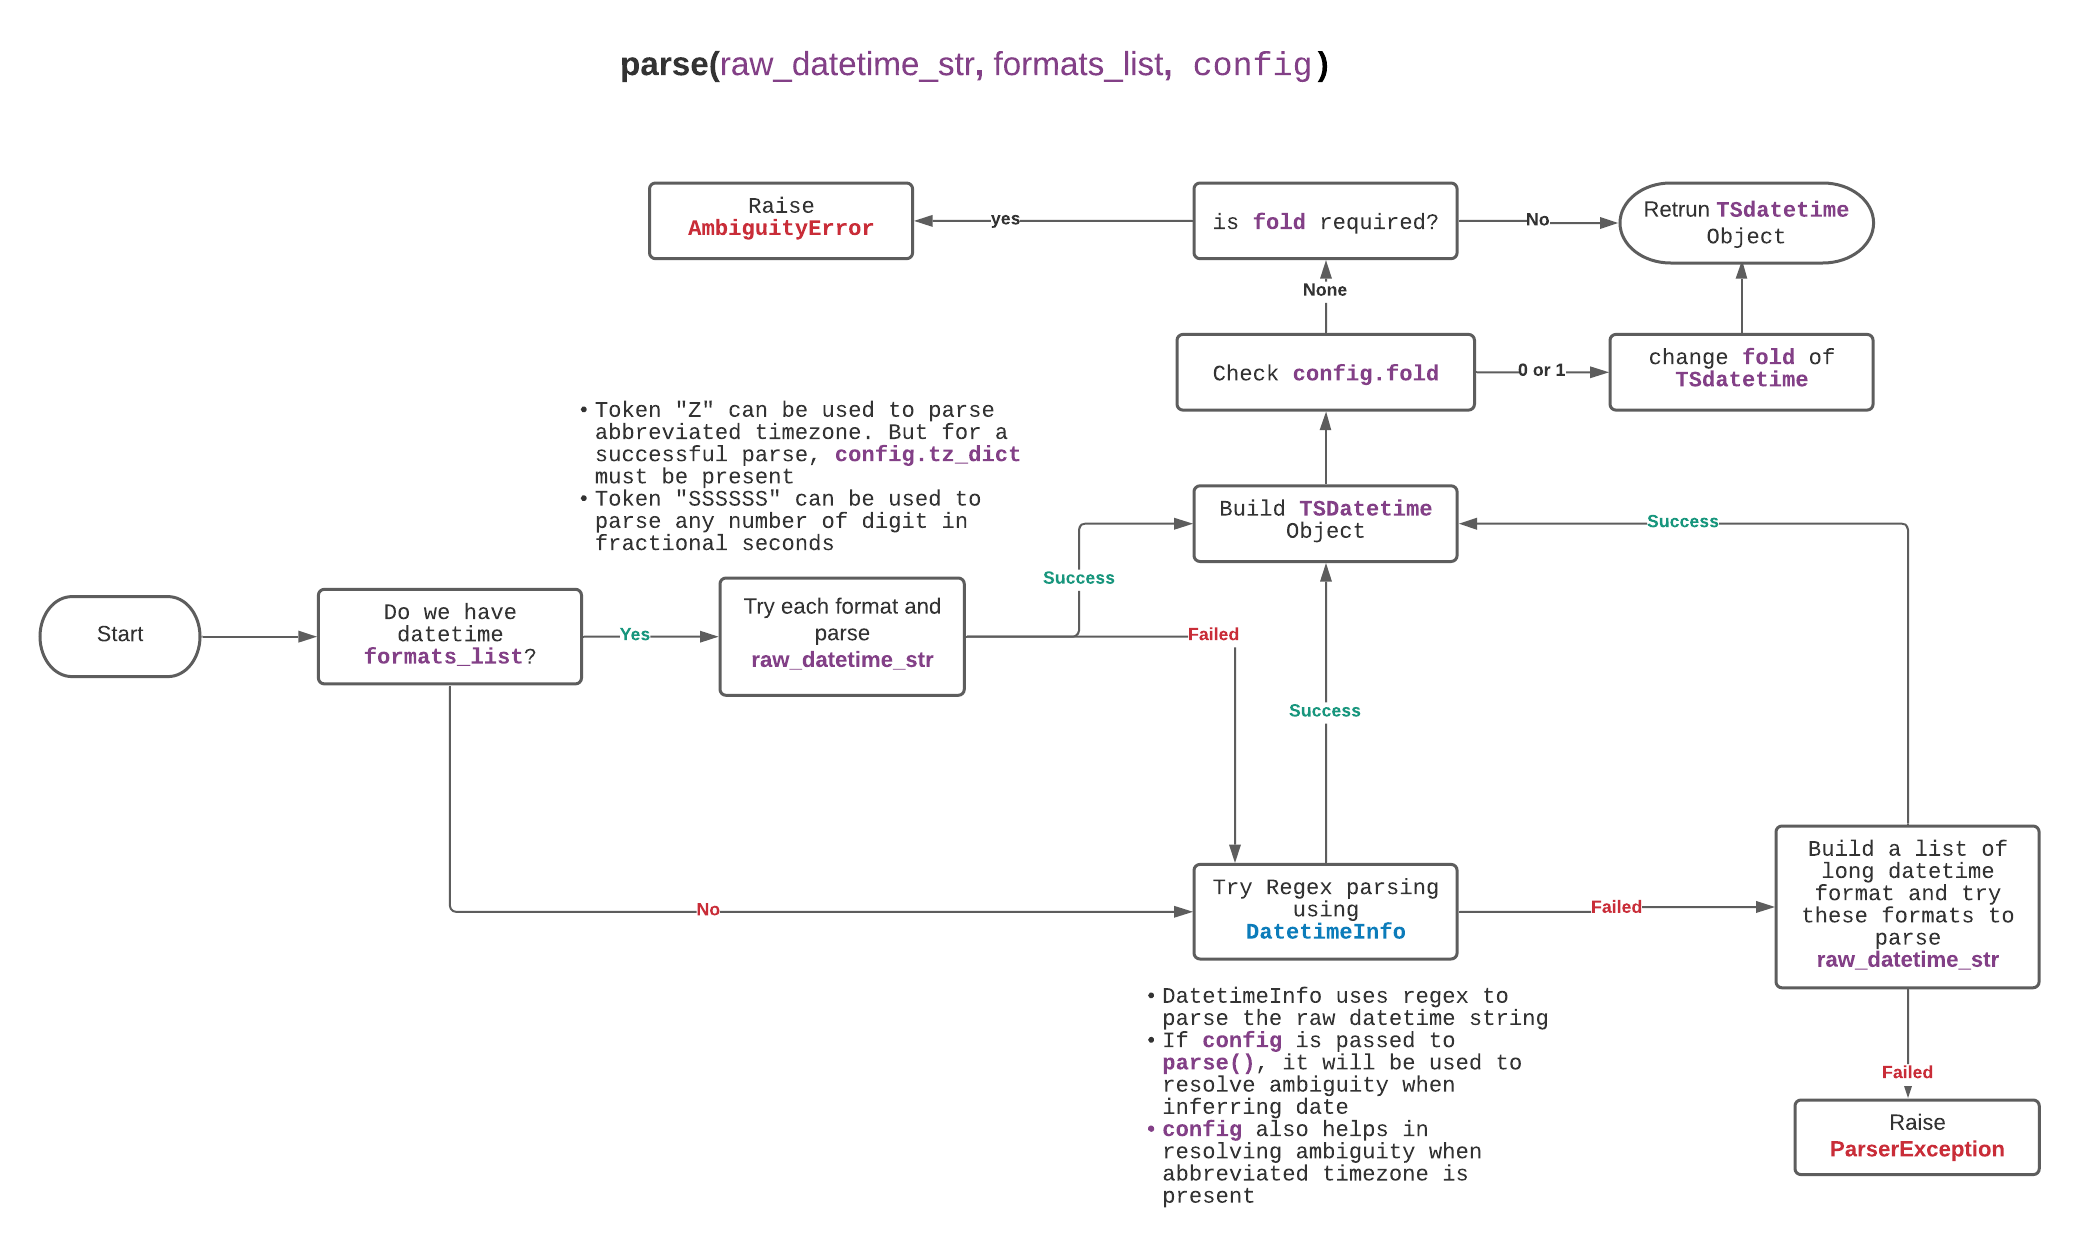
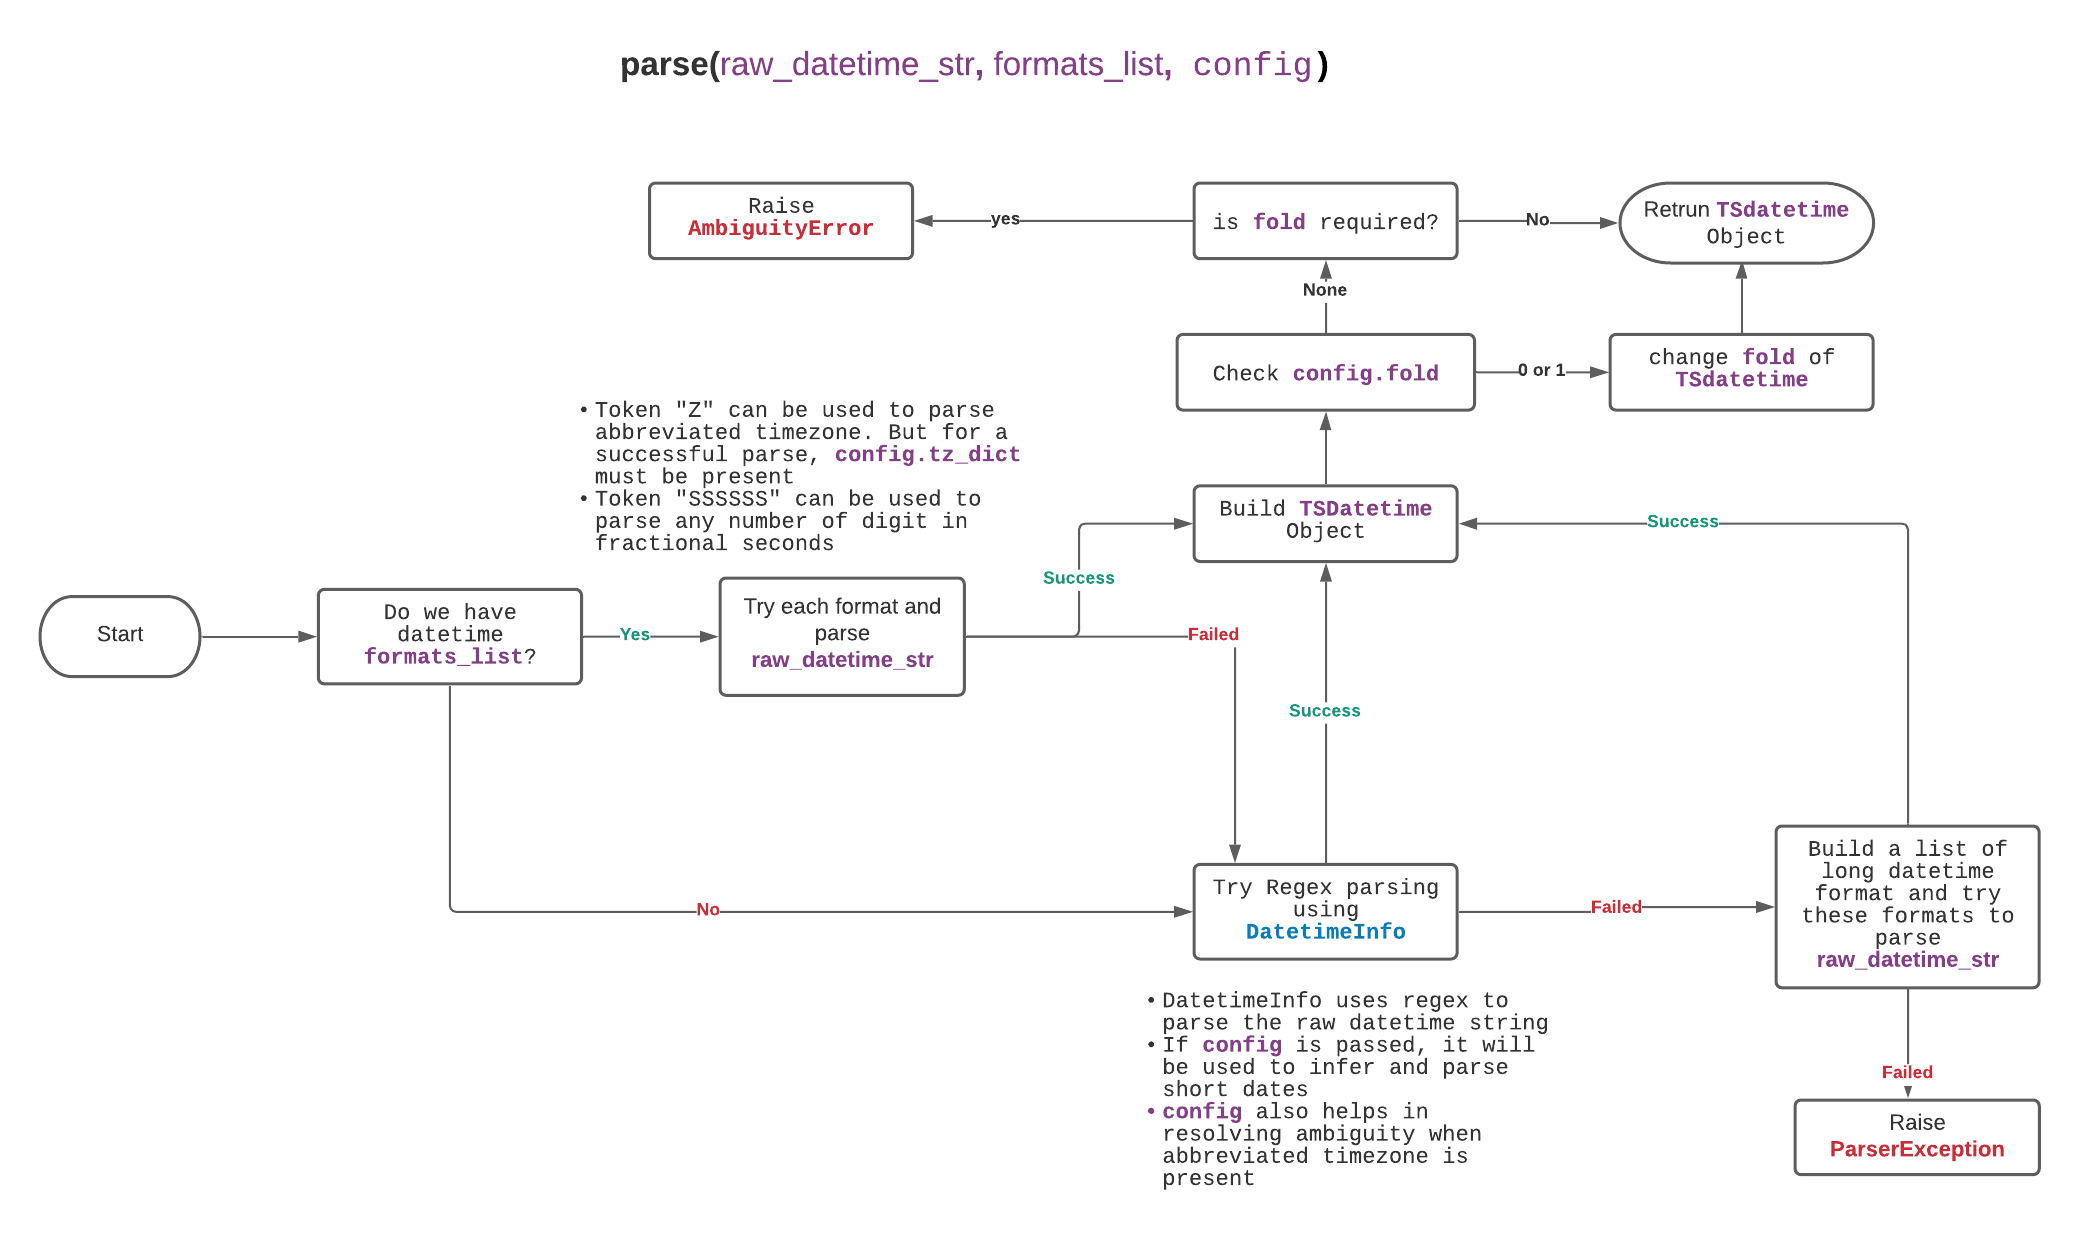
DE-2591: updated docs for DatetimeConfig

Changed region(s): [[0.5625, 0.8, 0.75, 0.9846]]

diff --git a/task_script_utils/datetime_parser/README.md b/task_script_utils/datetime_parser/README.md
@@ -6,7 +6,7 @@
 - [Working with formats_list](#working-with-formats_list)
   - [Working with fractional seconds](#working-with-fractional-seconds)
   - [Working with abbreviated timezones](#working-with-abbreviated-timezones)
-- [Resolving ambiguous dates with DatetimeConfig](#resolving-ambiguous-dates-with-datetimeconfig)
+- [Working with DatetimeConfig](#working-with-datetimeconfig)
 - [Working with TSDatetime](#working-with-tsdatetime)
 - [DatetimeConfig](#datetimeconfig)
 - [Limitations](#limitations)
@@ -230,9 +230,9 @@ result.isoformat() # 2021-12-12T14:15:16-06:00
 
 An exception will be raised if DatetimeConfig.tz_dict doesn't contain the abbreviated tz.
 
-## Resolving ambiguous dates with `DatetimeConfig`
+## Working with `DatetimeConfig`
 
-After parser has extracted date parts using regex, `DatetimeConfig` can be used to handle ambiguous cases by specifying flags like `year_first: Optional[bool]` and `day_first: Optional[bool]`.
+After parser has extracted date parts using regex, `DatetimeConfig` if passed, will be used to parse short date with the help of flags like `year_first: Optional[bool]` and `day_first: Optional[bool]`.
 
 - `day_first: Optional[bool]`: `True/False`. Defaults to `None`
   - Whether to interpret the first value in an ambiguous 3-integer date (e.g. 01/05/09) as the day (True) or month (False).
